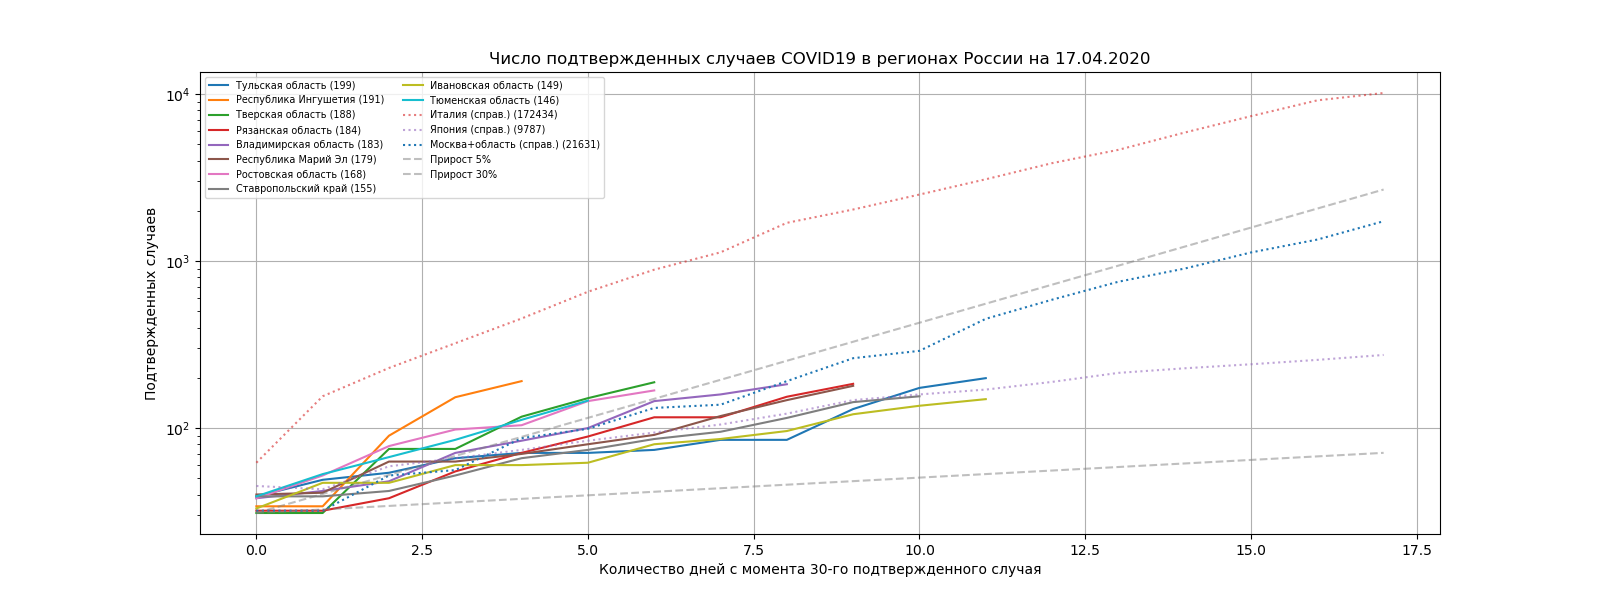
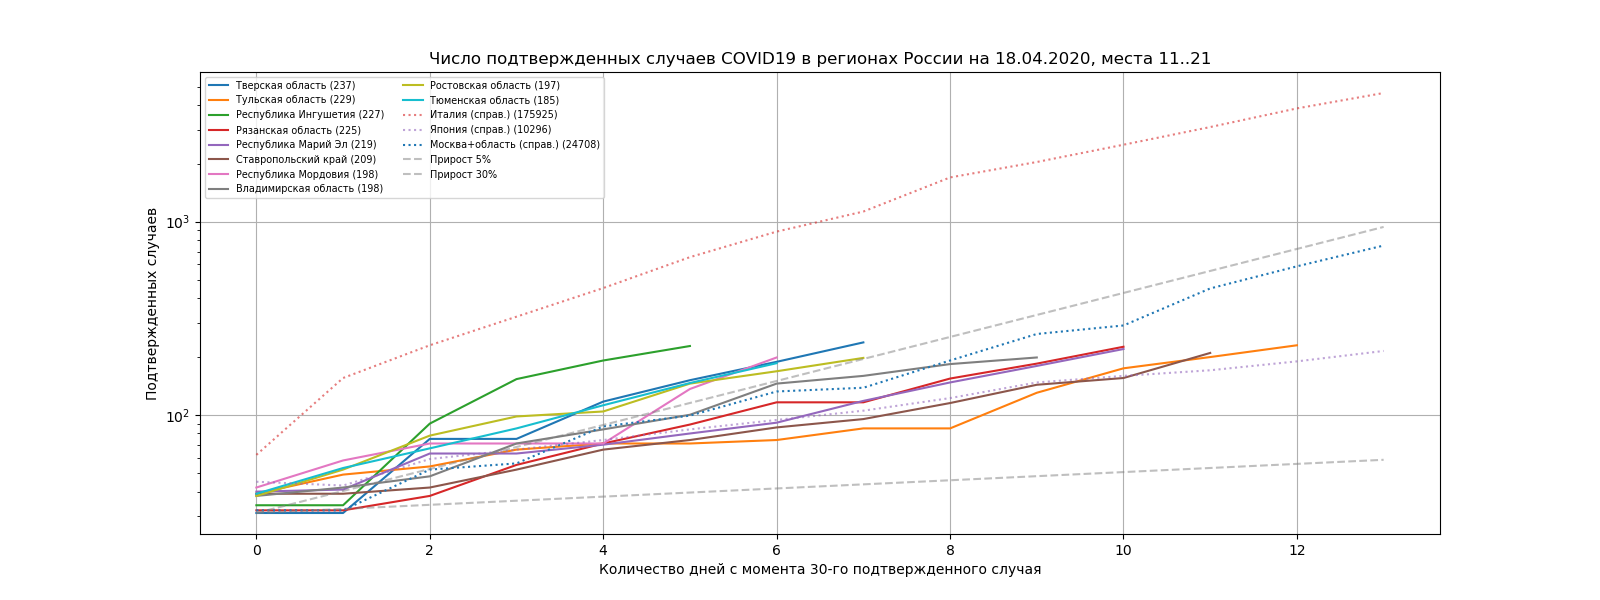
Update plots

diff --git a/python3/src/covid19ru/plot.py b/python3/src/covid19ru/plot.py
@@ -45,7 +45,8 @@ def plot(confirmed_min_threshold=100,
          save_name:Optional[str]=None,
          labels_in_russian:bool=False,
          moscow_italy_right_margin:int=5,
-         rng:Tuple[Optional[int],Optional[int]]=(None,None))->None:
+         rng:Tuple[Optional[int],Optional[int]]=(None,None),
+         title_suffix:str='')->None:
   plt.figure(figsize=(16, 6))
   plt.yscale('log')
 
@@ -127,11 +128,11 @@ def plot(confirmed_min_threshold=100,
   #          color='grey', linestyle='--', label=_growth_rate_label(85), alpha=0.5)
 
   if labels_in_russian:
-    plt.title(f"Число подтвержденных случаев COVID19 в регионах России на {lastdate.strftime('%d.%m.%Y')}")
+    plt.title(f"Число подтвержденных случаев COVID19 в регионах России на {lastdate.strftime('%d.%m.%Y')}{title_suffix}")
     plt.xlabel(f"Количество дней с момента {confirmed_min_threshold}-го подтвержденного случая")
     plt.ylabel("Подтвержденных случаев")
   else:
-    plt.title(f"Confirmed COVID19 cases in regions of Russia, as of {lastdate.strftime('%d %B %Y')}")
+    plt.title(f"Confirmed COVID19 cases in regions of Russia, as of {lastdate.strftime('%d %B %Y')}{title_suffix}")
     plt.xlabel(f"Number of days since {confirmed_min_threshold}th confirmed")
     plt.ylabel("Confirmed cases")
 

diff --git a/python3/plot.py b/python3/plot.py
@@ -3,10 +3,14 @@
 from covid19ru.plot import plot
 
 def plot_all():
-  plot(show=False, save_name='ruscovid.png', labels_in_russian=False, confirmed_min_threshold=30, rng=(None,10))
-  plot(show=False, save_name='ruscovid_10_20.png', labels_in_russian=False, confirmed_min_threshold=30, rng=(10,20))
-  plot(show=True, save_name='ruscovid_ru.png', labels_in_russian=True, confirmed_min_threshold=30, rng=(None,10))
-  plot(show=True, save_name='ruscovid_ru_10_20.png', labels_in_russian=True, confirmed_min_threshold=30, rng=(10,20))
+  plot(show=False, save_name='ruscovid.png', labels_in_russian=False,
+       confirmed_min_threshold=30, rng=(None,10), title_suffix=', Top-10')
+  plot(show=False, save_name='ruscovid_10_20.png', labels_in_russian=False,
+       confirmed_min_threshold=30, rng=(10,20), title_suffix=', Places 11..21')
+  plot(show=True, save_name='ruscovid_ru.png', labels_in_russian=True,
+       confirmed_min_threshold=30, rng=(None,10), title_suffix=', первая десятка')
+  plot(show=True, save_name='ruscovid_ru_10_20.png', labels_in_russian=True,
+       confirmed_min_threshold=30, rng=(10,20), title_suffix=', места 11..21')
 
 if __name__ == '__main__':
   plot_all()
